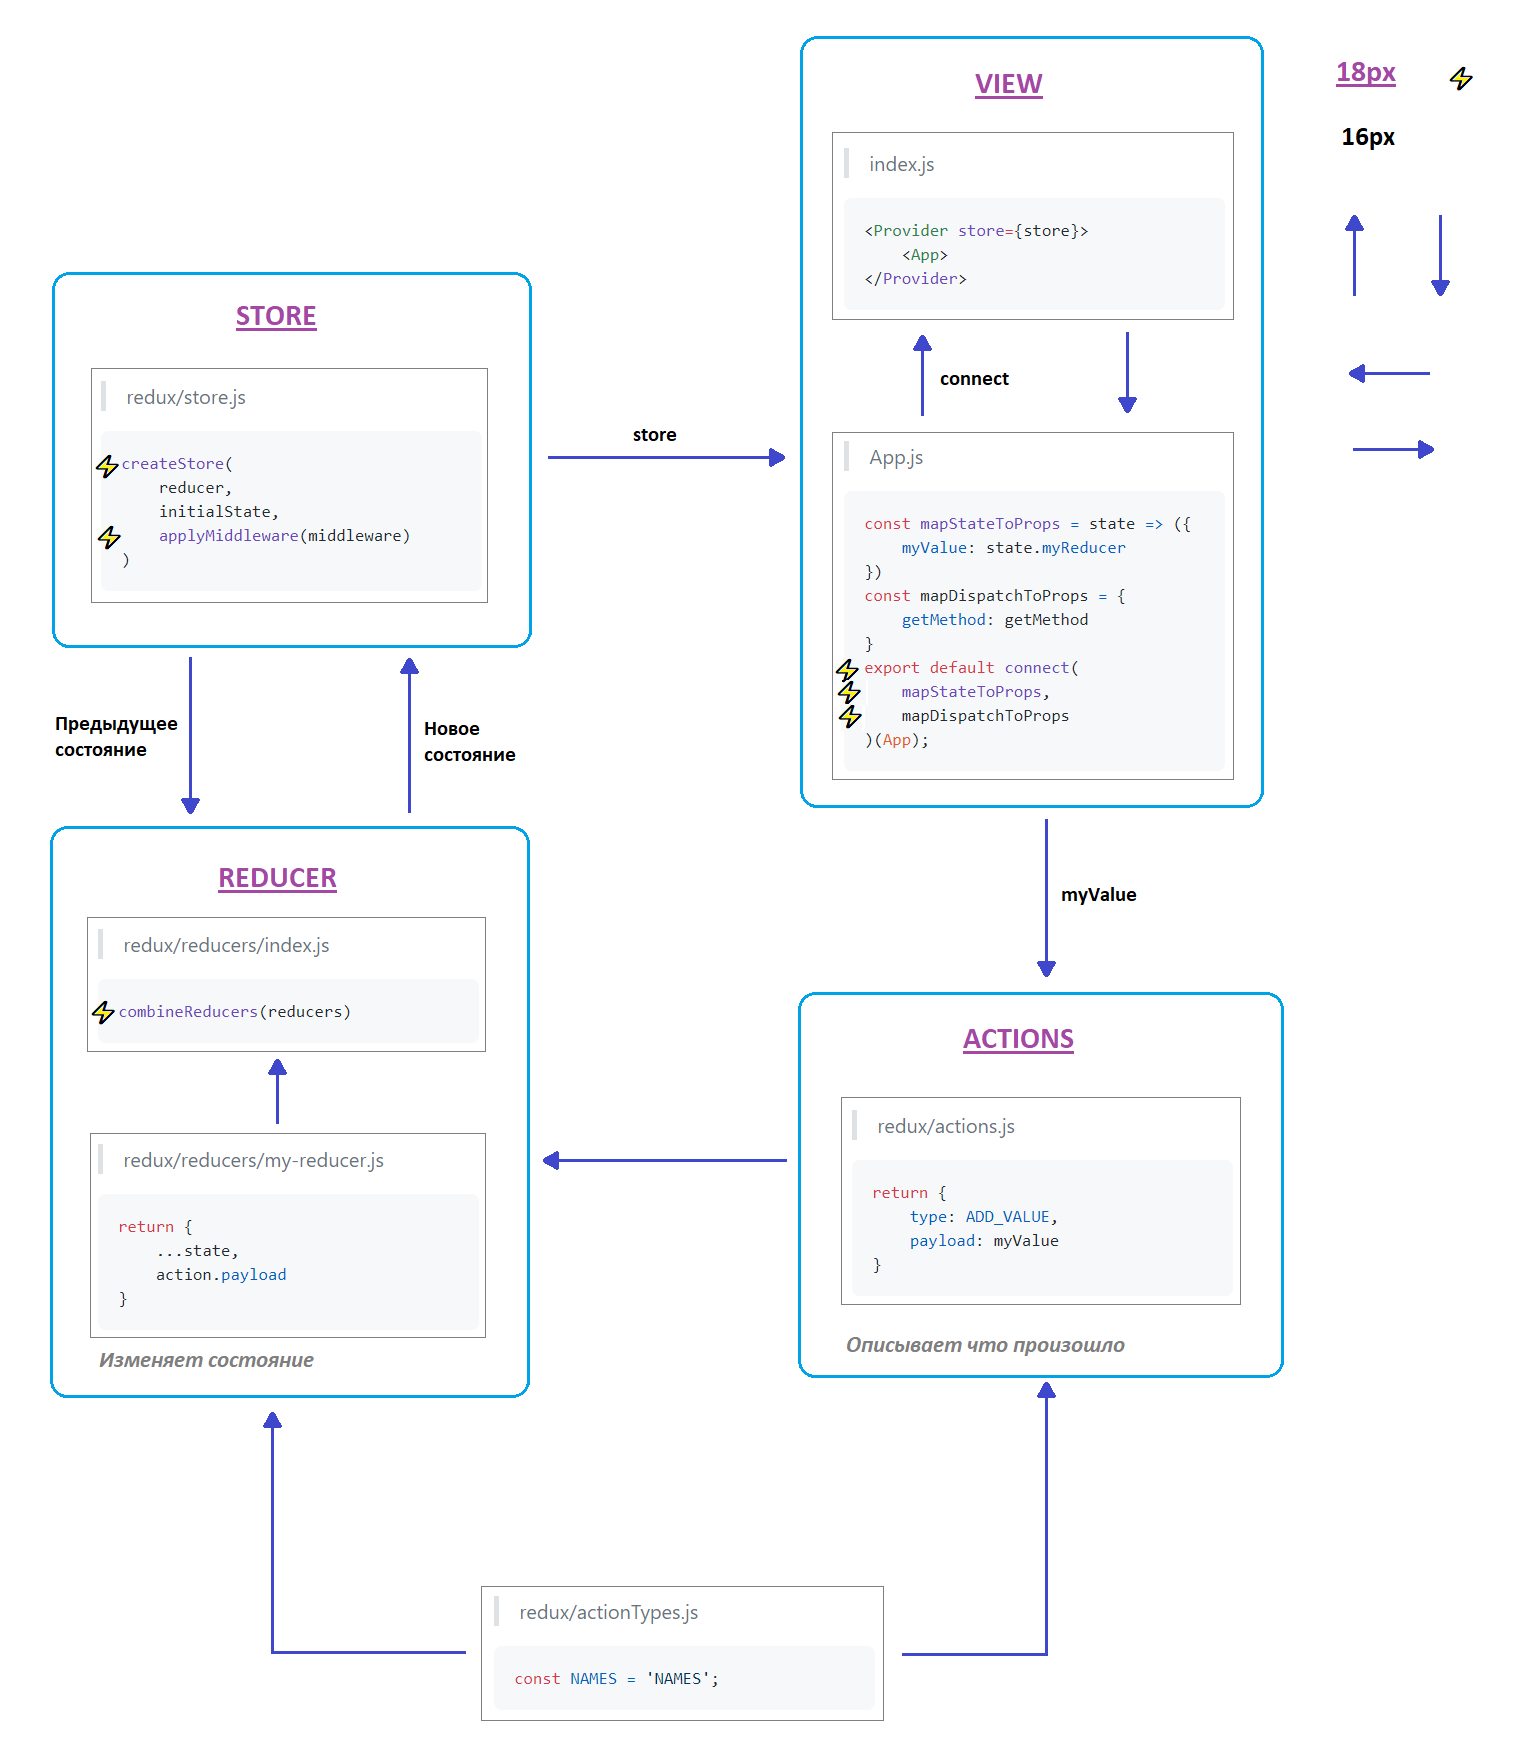
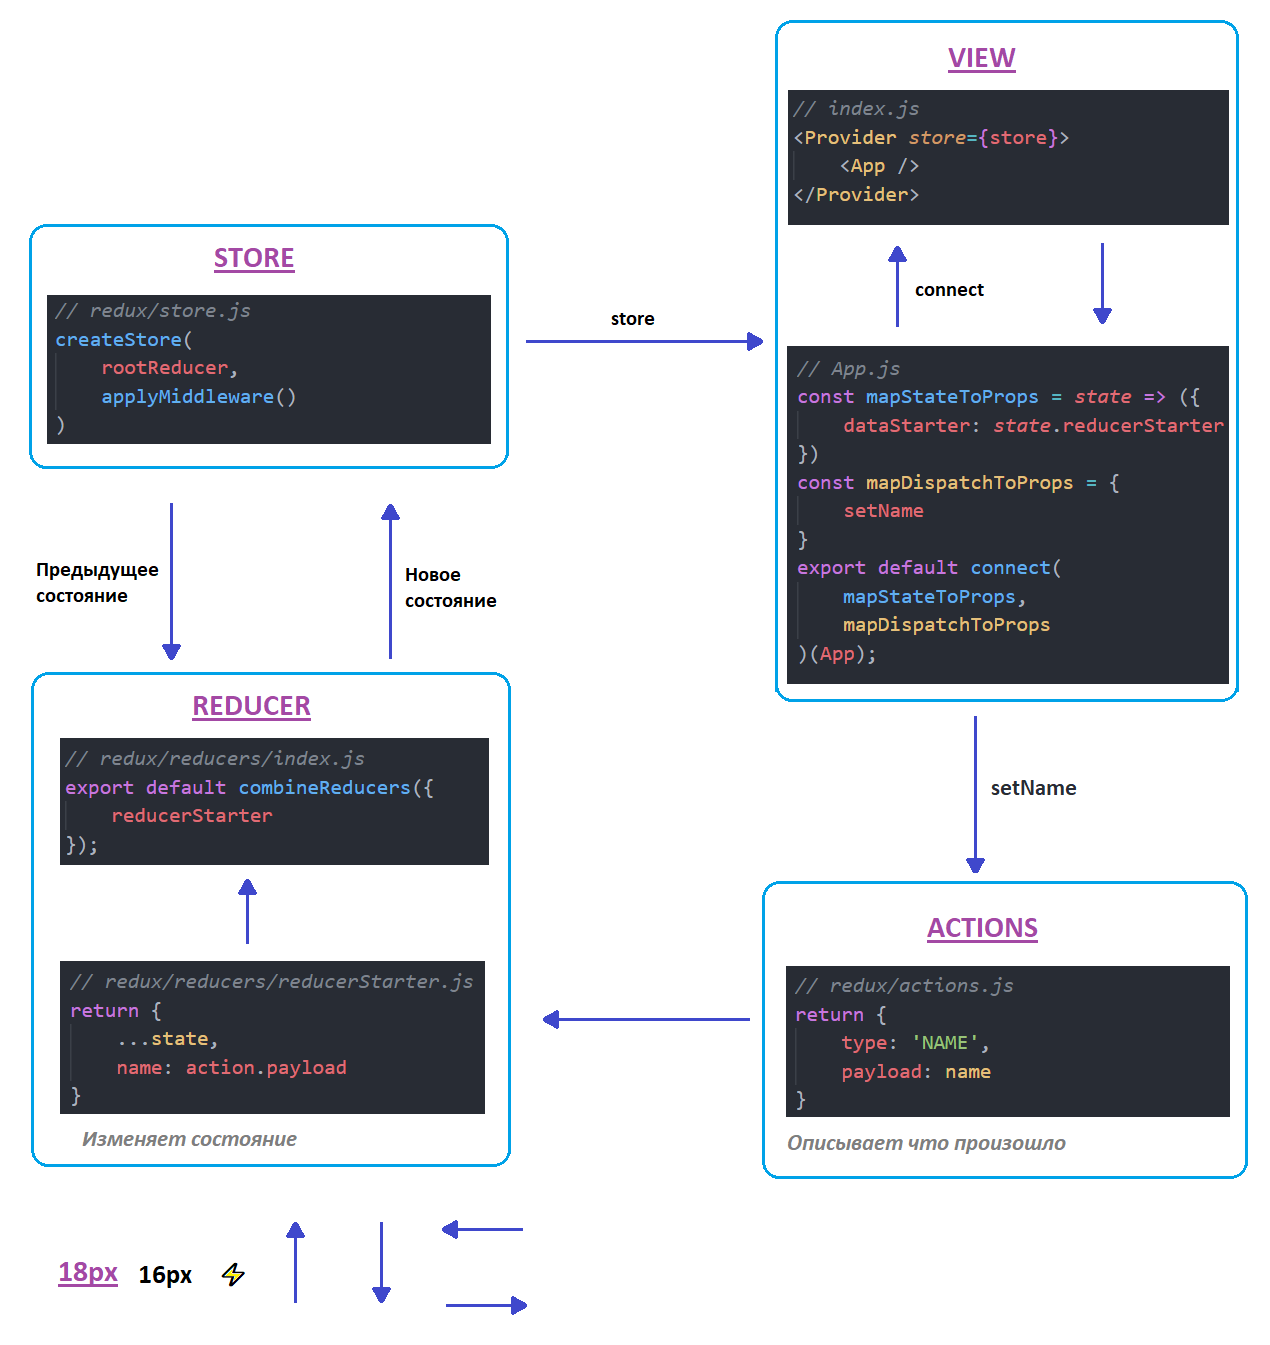
z

diff --git a/files/source for img/react-redux-structure.js b/files/source for img/react-redux-structure.js
@@ -1,0 +1,47 @@
+
+// index.js
+<Provider store={store}>
+    <App />
+</Provider>
+
+
+
+// App.js
+const mapStateToProps = state => ({
+	dataStarter: state.reducerStarter
+})
+const mapDispatchToProps = {
+	setName
+}
+export default connect(
+	mapStateToProps,
+	mapDispatchToProps
+)(App);
+
+
+// redux/actions.js
+return {
+    type: 'NAME',
+    payload: name
+}
+
+
+// redux/reducers/reducerStarter.js
+return {
+    ...state,
+    name: action.payload
+}
+
+
+// redux/reducers/index.js
+export default combineReducers({
+    reducerStarter
+});
+
+
+// redux/store.js
+createStore(
+	rootReducer,
+	applyMiddleware()
+)
+
